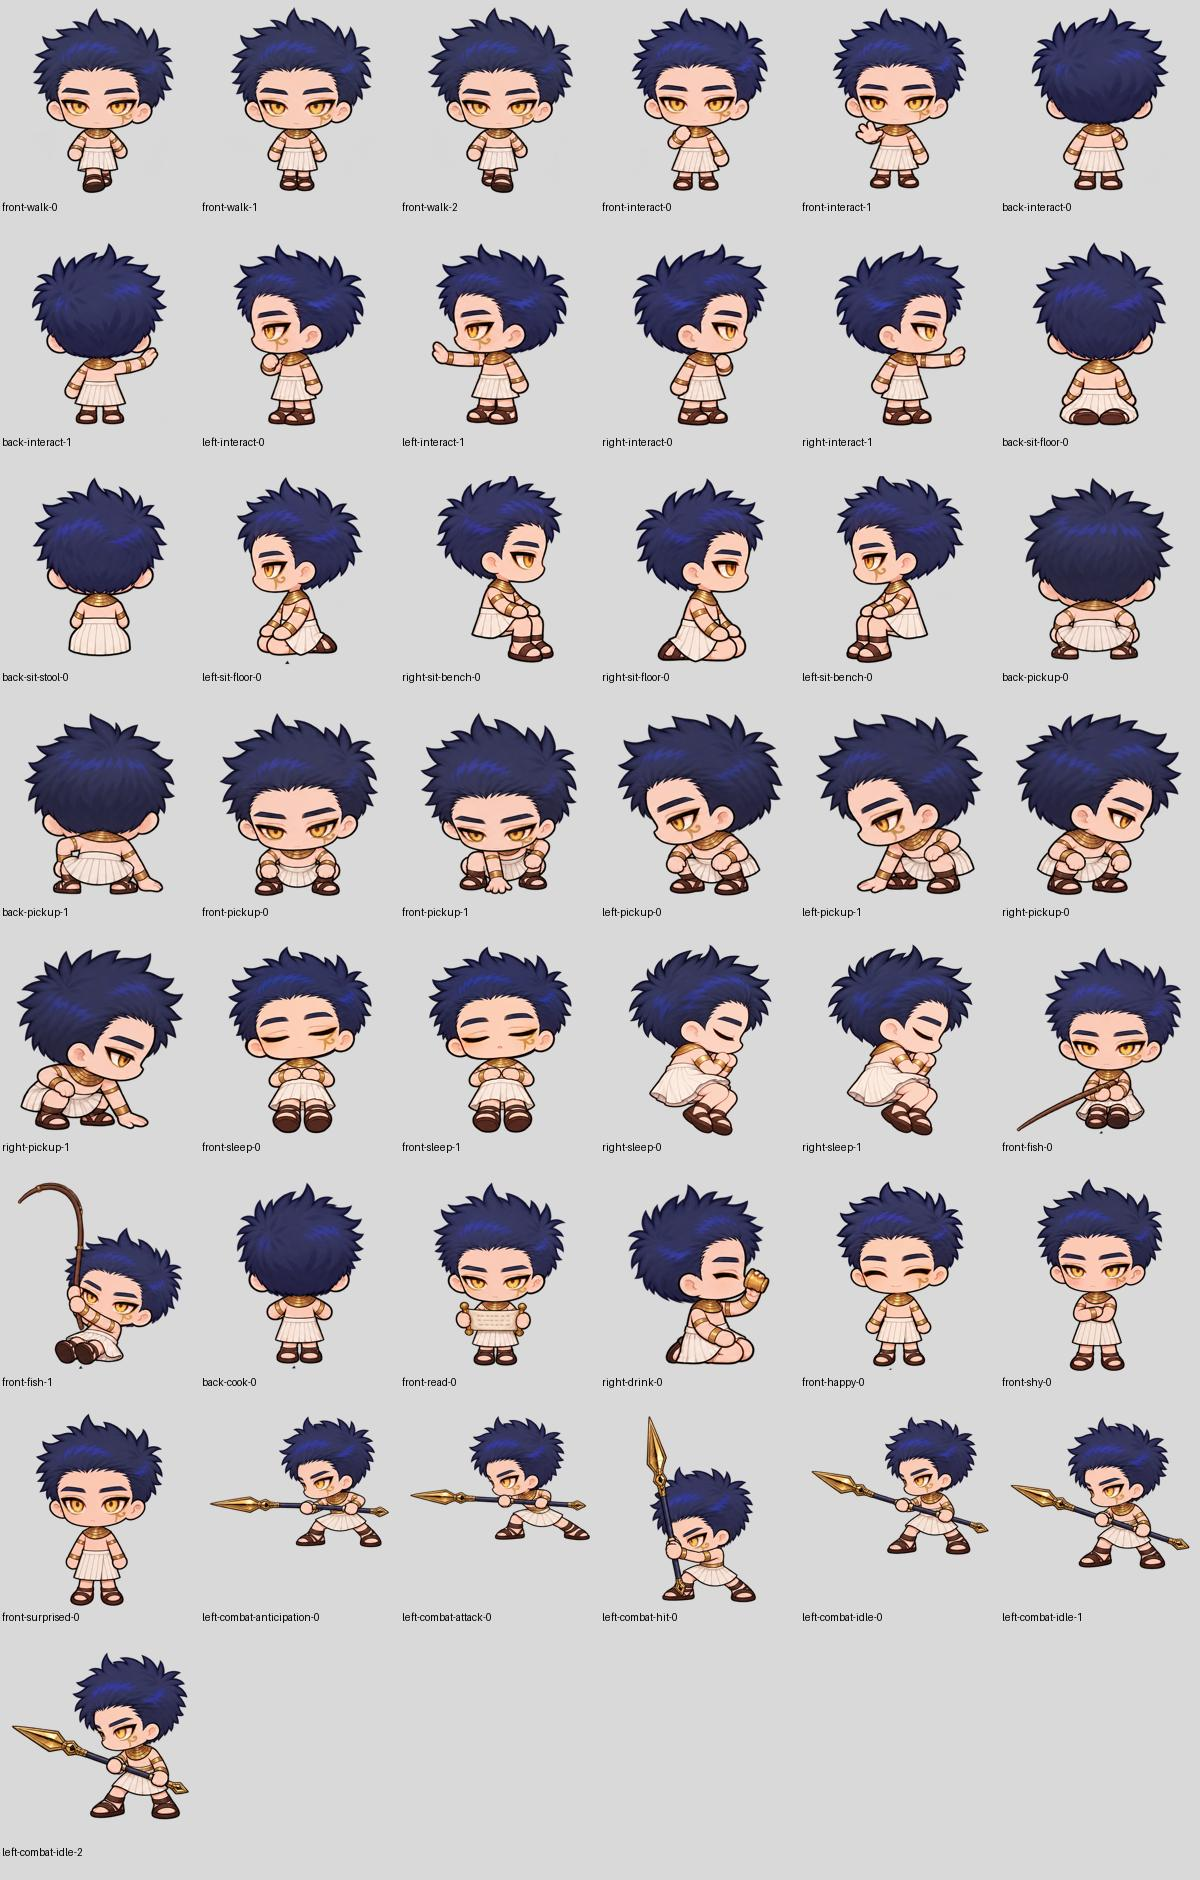
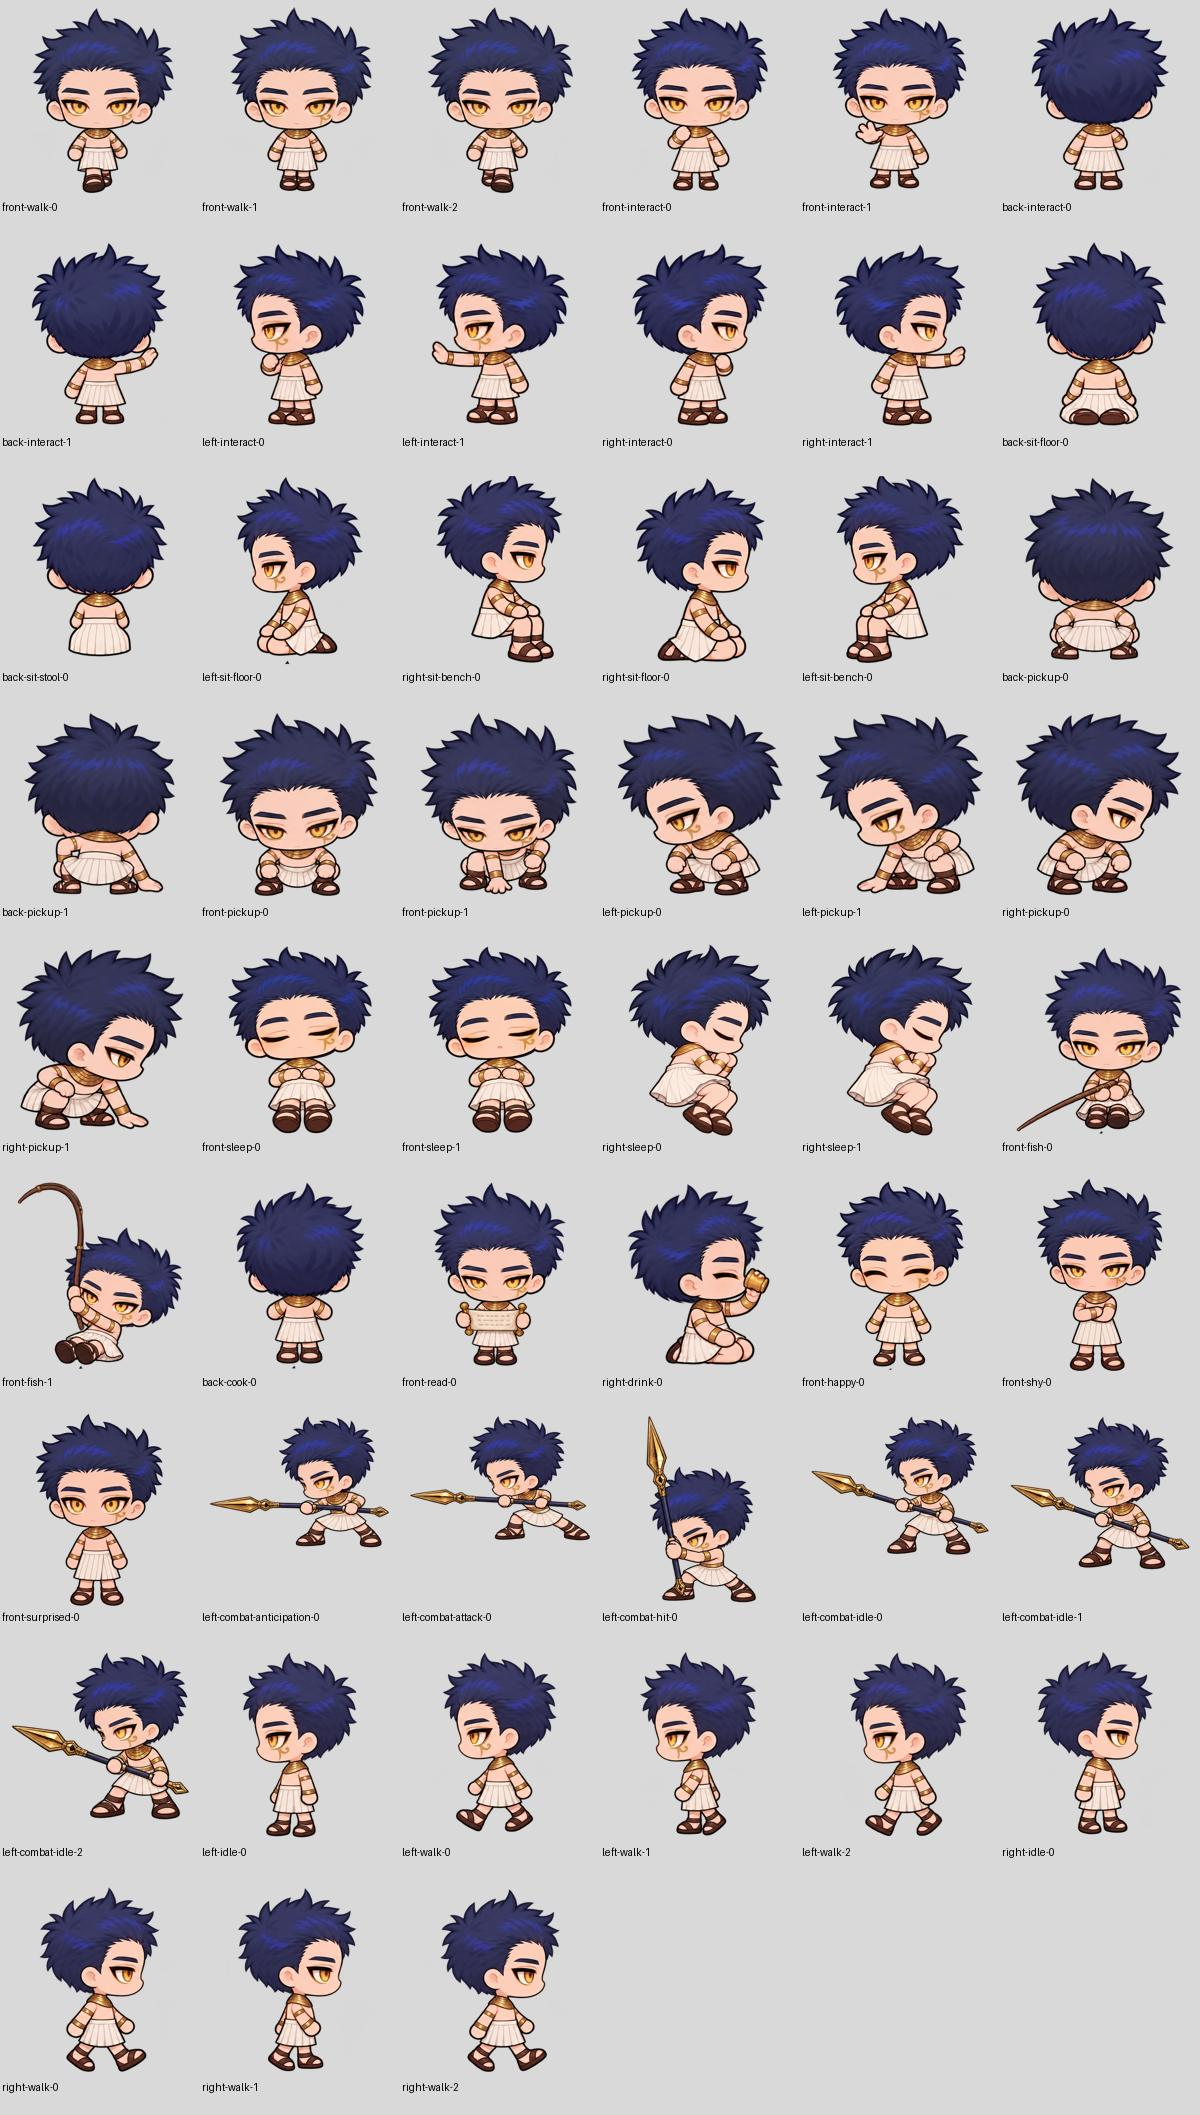
Add approved Horus side idle and walk sprites

diff --git a/docs/art/horus-redraw-2026-10-14/README.md b/docs/art/horus-redraw-2026-10-14/README.md
@@ -2,10 +2,11 @@
 
 사용자 요청: “일단 채택본들 다 개별 png로 메인브랜치에 올려줘”.
 
-전달 파일은 `png/`의 **43장**이다. 이미지 재생성·리사이즈 없이 채택 시트에서 분리하고 투명 여백 16px을 추가했다. 원본 캐릭터는 `sources/horus-original.png`, 채택 출처·셀·크롭 좌표·크기·기준점·SHA-256은 `manifest.json`에 있다. 기준점은 전달용 하단 중앙이며 게임 적용 시 동작별 정렬 검토가 필요하다.
+전달 파일은 `png/`의 **51장**이다. 이미지 재생성·리사이즈 없이 채택 시트에서 분리하고 투명 여백 16px을 추가했다. 원본 캐릭터는 `sources/horus-original.png`, 채택 출처·셀·크롭 좌표·크기·기준점·SHA-256은 `manifest.json`에 있다. 기준점은 전달용 하단 중앙이며 게임 적용 시 동작별 정렬 검토가 필요하다.
 
 | 묶음 | 장수 | 채택 근거 |
 |---|---:|---|
+| 좌우 정지·걷기 | 8 | 1000482937 첨부: “이거 메인에 넣어줭” |
 | 정면 걷기 | 3 | “정면걷기 문 상호작용 앉기 줍기 채택했다고 기록해놔” |
 | 문 상호작용 (정면·뒷면·좌·우) | 8 | 같은 사용자 확정 |
 | 앉기 | 6 | 같은 사용자 확정 |
@@ -18,6 +19,6 @@
 
 `png/`만 채택 개별 파일 목록이다. `sources/`는 출처 보존용 전체 시트이므로 미채택 셀이 섞일 수 있다. 전체 시트가 모두 채택되었다고 해석하지 않는다. 이전 생활 묶음의 미소는 교체되었고, 샤이·서프라이즈는 별도 채택본으로 대체했다. 최근 두 번째 전투 묶음 재생성들은 미채택이며 전달 PNG에서 제외했다.
 
-게임 런타임 파일과 기존 메인1/메인2 자산은 교체하지 않았다. 이번 작업은 사용자가 승인한 새 그림의 저장소 보관이다. 뒷면·옆면 걷기와 정지의 최종 개별 출처는 이번 명시적 채택 목록에서 확정하지 않아 추가하지 않았다.
+게임 런타임 파일과 기존 메인1/메인2 자산은 교체하지 않았다. 이번 작업은 사용자가 승인한 새 그림의 저장소 보관이다. 좌우 정지·걷기는 추가 첨부 1000482937에서 확정했다. 뒷면 걷기·정지는 이번 개별 PNG 목록에 포함하지 않았다.
 
-검증: 43개 PNG 디코딩, 투명 알파, 파일 해시, 유지된 픽셀의 원본 일치 확인. 잘라낸 셀은 미리보기로 확인했다. 생성 시트 자체의 표현·경계 품질은 채택 당시 상태로 보존했다.
+검증: 51개 PNG 디코딩, 투명 알파, 파일 해시, 유지된 픽셀의 원본 일치 확인. 잘라낸 셀은 미리보기로 확인했다. 생성 시트 자체의 표현·경계 품질은 채택 당시 상태로 보존했다.

diff --git a/docs/ASTRA-DRAW-STATE.md b/docs/ASTRA-DRAW-STATE.md
@@ -1,8 +1,8 @@
 # 현재 작업 — 압축 후 먼저 확인
 
-갱신: 2026-10-14. **몹 추가 제작은 보류. 호루스 새 외형 채택본 43장을 개별 PNG로 보관.**
+갱신: 2026-10-14. **몹 추가 제작은 보류. 호루스 새 외형 채택본 51장을 개별 PNG로 보관.**
 
-최신 호루스 작업: [채택본·출처·남은 범위](art/horus-redraw-2026-10-14/README.md). 정면 걷기·상호작용·앉기·줍기·잠자기·생활·첫 왼쪽 전투 6장이 포함된다. 후속 전투 묶음은 미채택. 게임 적용은 하지 않았다. 사용자가 다시 지시하기 전 재생성을 진행하지 않는다.
+최신 호루스 작업: [채택본·출처·남은 범위](art/horus-redraw-2026-10-14/README.md). 정면 걷기·좌우 정지/걷기·상호작용·앉기·줍기·잠자기·생활·첫 왼쪽 전투 6장이 포함된다. 후속 전투 묶음은 미채택. 게임 적용은 하지 않았다. 사용자가 다시 지시하기 전 재생성을 진행하지 않는다.
 
 | 항목 | 현재 상태 |
 |---|---|
